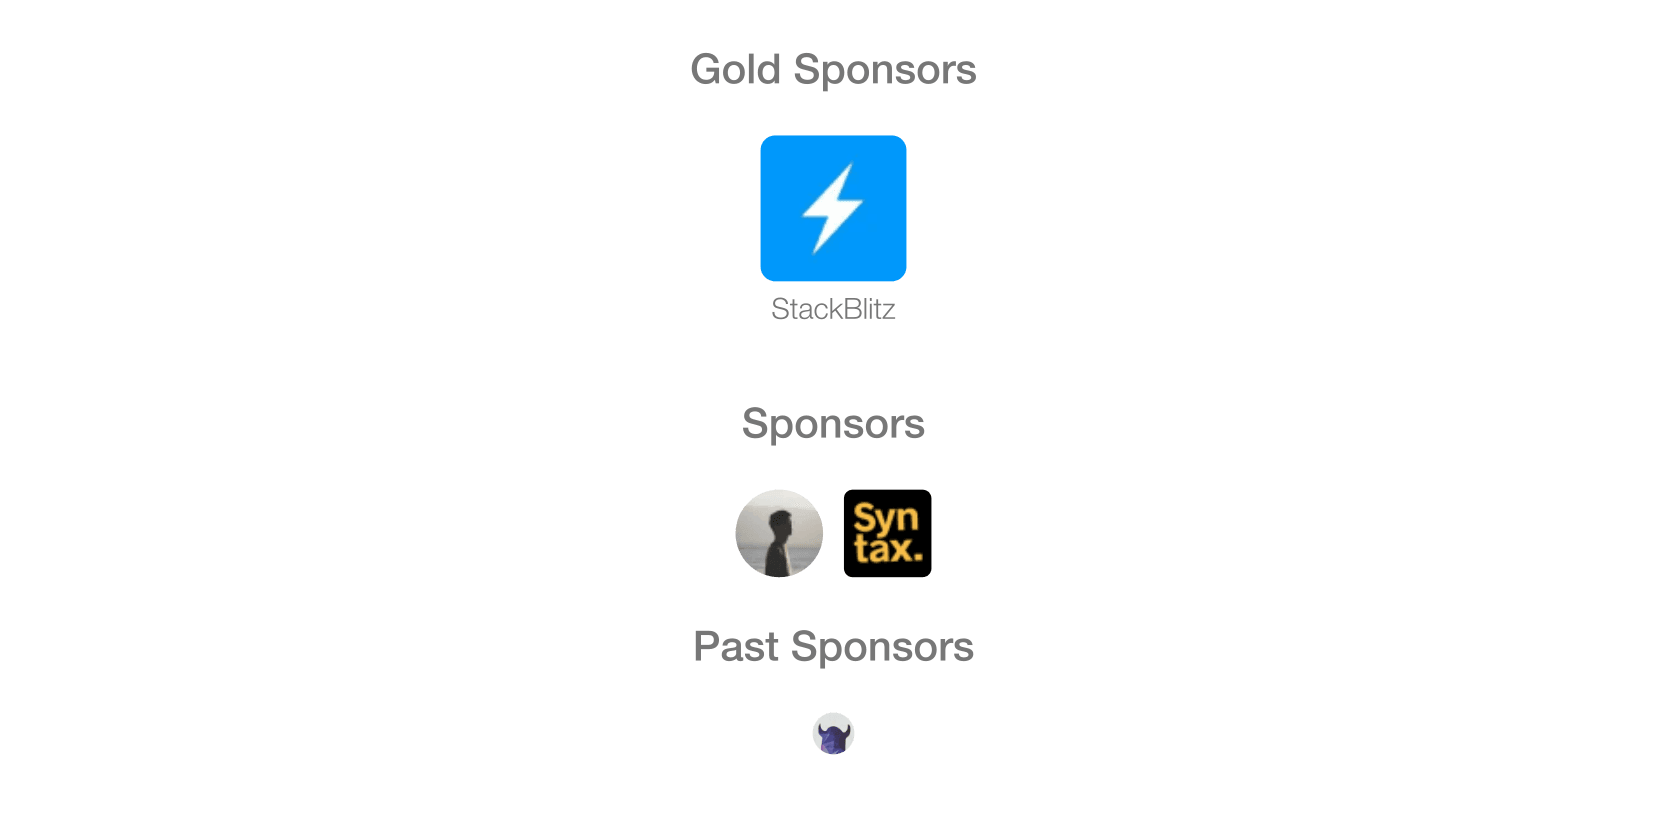
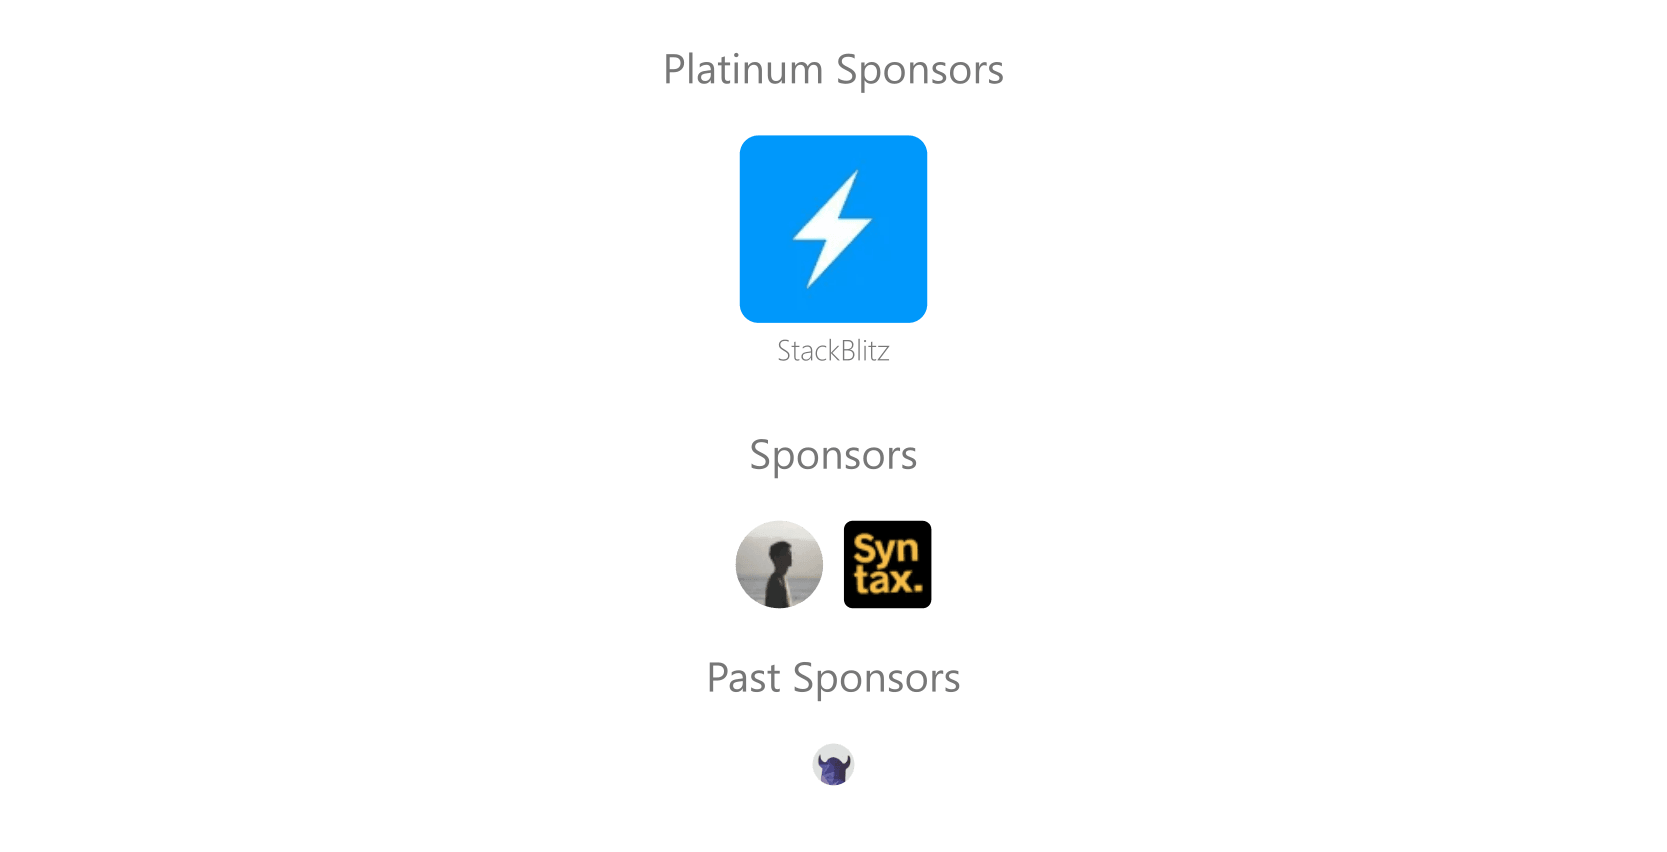
update sponsor

diff --git a/sponsorkit.config.ts b/sponsorkit.config.ts
@@ -1,4 +1,4 @@
-import { defineConfig, presets } from 'sponsorkit'
+import { defineConfig, tierPresets } from 'sponsorkit'
 
 export default defineConfig({
   github: {
@@ -22,7 +22,7 @@ export default defineConfig({
     },
     {
       title: 'Backers',
-      preset: presets.base,
+      preset: tierPresets.base,
     },
     {
       title: 'Sponsors',
@@ -41,17 +41,17 @@ export default defineConfig({
     {
       title: 'Silver Sponsors',
       monthlyDollars: 50,
-      preset: presets.medium,
+      preset: tierPresets.medium,
     },
     {
       title: 'Gold Sponsors',
       monthlyDollars: 250,
-      preset: presets.large,
+      preset: tierPresets.large,
     },
     {
       title: 'Platinum Sponsors',
-      monthlyDollars: 1000,
-      preset: presets.xl,
+      monthlyDollars: 500,
+      preset: tierPresets.xl,
     }
   ]
 })
